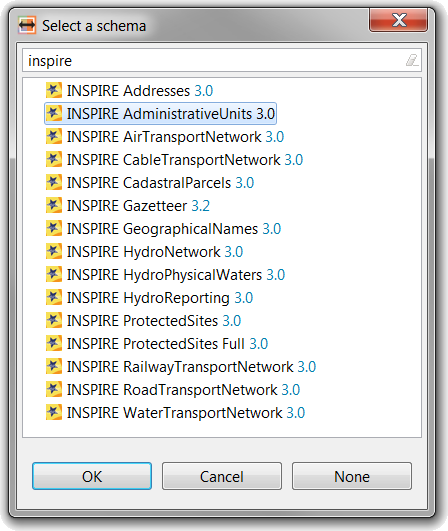
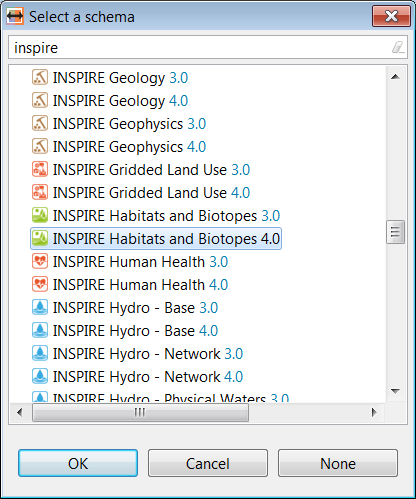
small update to INSPIRE model help

diff --git a/doc/plugins/eu.esdihumboldt.hale.doc.user/html/tasks/schema/inspire_schema.html b/doc/plugins/eu.esdihumboldt.hale.doc.user/html/tasks/schema/inspire_schema.html
@@ -17,18 +17,38 @@
 		schema (see <a
 			href="PLUGINS_ROOT/eu.esdihumboldt.hale.doc.user/html/tasks/schema/load_browse_schema.html">Loading
 			and browsing schemas</a>).<br> The GML Application Schemas are
-		provided by the European Commission. You can either download them or
-		use the schema repositories maintained by the JRC.
+		provided by the European Commission. You can either use the schema
+		presets defined in HALE (choose &quot;From preset&quot; when importing
+		a schema) or the <a href="http://inspire.ec.europa.eu/schemas/"
+			target="_blank">schema repository</a> maintained by the JRC.
 	</p>
 	<p>
 		Downloads for the data specifications are available here:<br> <a
 			href="http://inspire.jrc.ec.europa.eu/index.cfm/pageid/2/list/datamodels"
-			target="_blank">http://inspire.jrc.ec.europa.eu/index.cfm/pageid/2/list/datamodels</a><br>
-		For use in <i>HALE</i>, the downloads <strong>GML</strong> - contains
-		the GML Application Schemas - and <strong>Code list
-			dictionaries</strong> are relevant. The code lists can be loaded in <i>HALE</i>
-		in addition to the schemas.
+			target="_blank">http://inspire.jrc.ec.europa.eu/index.cfm/pageid/2/list/datamodels</a>
 	</p>
+	<p>HALE provides some pre-defined schema locations you can choose
+		from - currently the INSPIRE schemas for Annex I, II and III in
+		versions 3.0 and 4.0 are listed:</p>
+	<div>
+		<img src="images/presets_inspire.png" class="fit">
+	</div>
+	<p>
+		To access them choose <em>From preset</em> when loading a schema.
+	</p>
+	<p>
+		Another option to quickly start with mapping to an INSPIRE schema is
+		using the <i>Open web template</i> option from the toolbar.
+	</p>
+	<div>
+		<img src="images/web_template_button.png">
+	</div>
+	<p>It allows you to find predefined templates that already include
+		target schema and code lists, or even example projects including real
+		data.</p>
+	<div>
+		<img src="images/web_templates_inspire.png" class="fit">
+	</div>
 	<p>
 		Alternatively, the schemas are available in the following
 		repositories:<br> <a href="http://inspire.ec.europa.eu/schemas/"
@@ -38,20 +58,41 @@
 		schemas)<br> <br> The schemas available there are not meant
 		for download - instead their URLs should be used to load them into
 		HALE (e.g. by browsing the repository and using &quot;Copy Link
-		Location&quot; for a schema file to copy its URL to the clipboard).
+		Location&quot; for a schema file to copy its URL to the clipboard and
+		further providing it in &quot;From URL&quot; when importing a schema).
 	</p>
-	<p>HALE also provides some pre-defined schema locations you can
-		choose from - currently for INSPIRE the approved schemas from Annex I
-		are listed:</p>
+	<h2>Code lists</h2>
+	<p>
+		The INSPIRE data models make heavy use of code lists. A lot of these
+		code lists are provided through the <a
+			href="http://inspire.ec.europa.eu/codelist/" target="_blank">INSPIRE
+			code list register</a>. With HALE you can easily load them to use them
+		for a convenient selection from the available values. In the code list
+		import, select &quot;From INSPIRE registry&quot; to download the
+		current list of code lists and select a code list to load into the
+		current project.
+	</p>
 	<div>
-		<img src="images/presets_inspire.png" class="fit">
+		<img src="images/registry_codelists.png" class="fit">
 	</div>
 	<p>
-		To access them choose <em>From preset</em> when loading a schema.
+		You can use the loaded code lists for instance in the <i>Assign</i> or
+		<i>Classification</i> transformation functions - use the <i>Assign
+			a code list</i> option to associate a code list with a target property,
+		to be able to select a value from the code list. The actual values
+		that reside in the data are actually URLs pointing to the code list
+		value definition.
 	</p>
+	<div>
+		<img src="images/assign_codelist.png">
+	</div>
+	<p>Note that code lists may be pre-defined, extensible or even
+		empty. Some code lists are meant to be provided by the national
+		INSPIRE registries or via other organisations.</p>
 
 	<br>
 	<!-- related concepts -->
+	
 	<div>
 		<br> <img
 			src="PLUGINS_ROOT/eu.esdihumboldt.hale.doc.user/images/ngrelc.png">
